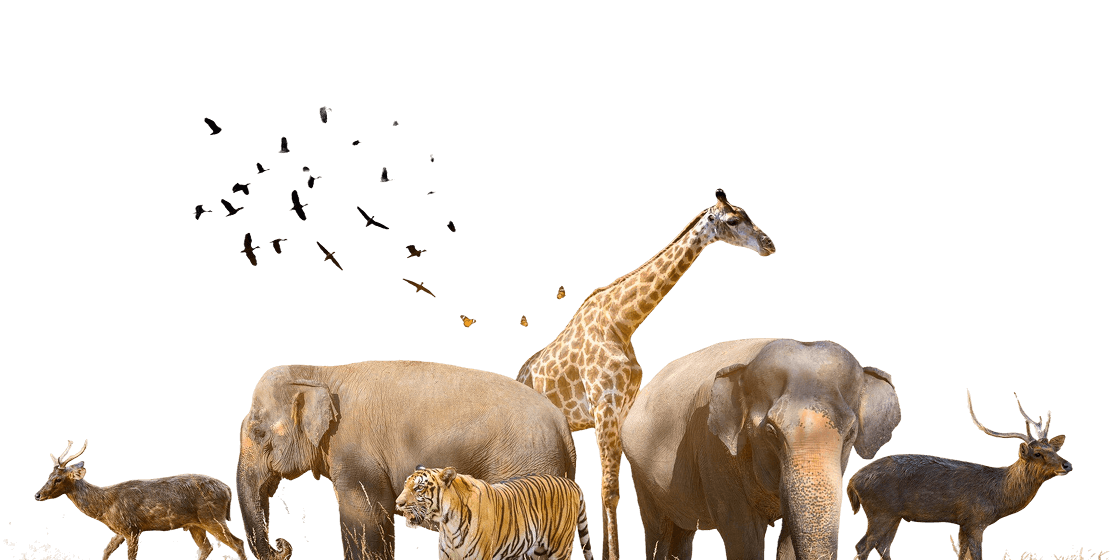
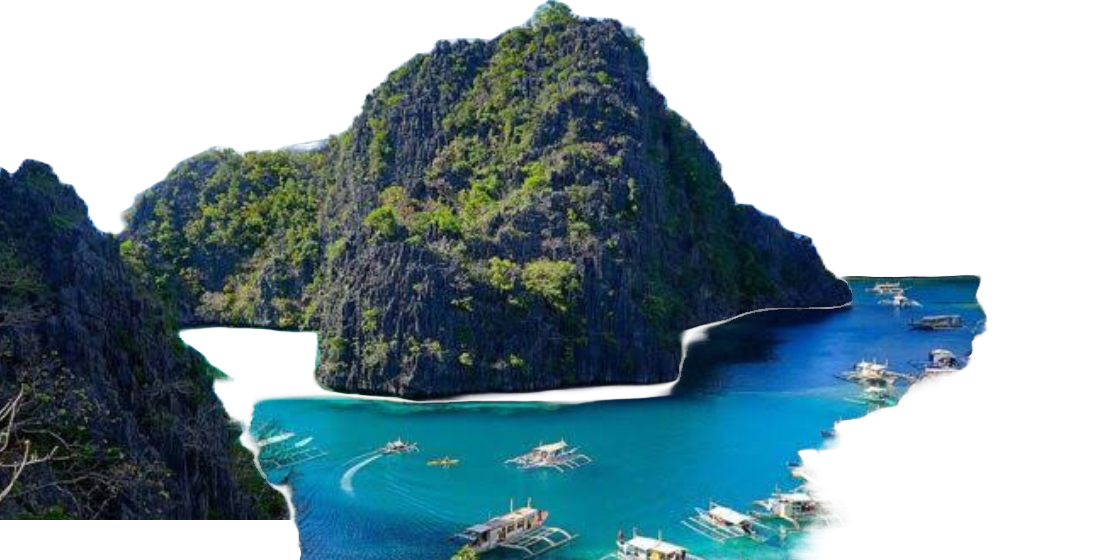
feat: update services page FAQ content and add background assets

diff --git a/services.html b/services.html
@@ -1162,73 +1162,84 @@
                                                     </span>
                                                 </button>
                                                 <div class="accordion-content">
-                                                    <div class="content-inner">Web agencies often work across various
-                                                        industries but might have expertise in fields like retail,
-                                                        healthcare, technology, or real estate.</div>
+                                                    <div class="content-inner">Amed is home to some of Bali’s best
+                                                        snorkeling spots, including Jemeluk Bay, Japanese Shipwreck, and
+                                                        Lipah Beach. These locations offer crystal-clear waters, vibrant
+                                                        coral reefs, and diverse marine life. Our guided snorkeling
+                                                        tours take you to the most beautiful and safe snorkeling sites.
+                                                    </div>
                                                 </div>
                                             </div>
 
                                             <div class="accordion-item">
                                                 <button class="accordion-header open">
-                                                    <h3 class="xl:text-2xxl text-lg font-normal">What industries do you
-                                                        specialize in?</h3>
+                                                    <h3 class="xl:text-2xxl text-lg font-normal">What can I expect on an
+                                                        Amed fishing trip?</h3>
                                                     <span class="arrow">
                                                         <i class="fa-solid fa-plus"></i>
                                                         <i class="fa-solid fa-minus"></i>
                                                     </span>
                                                 </button>
                                                 <div class="accordion-content active">
-                                                    <div class="content-inner">Web agencies often work across various
-                                                        industries but might have expertise in fields like retail,
-                                                        healthcare, technology, or real estate.</div>
+                                                    <div class="content-inner">Our Amed fishing trips offer an authentic
+                                                        Balinese fishing experience. You'll go fishing with experienced
+                                                        local fishermen using traditional handline fishing techniques or
+                                                        modern equipment. Expect to catch tuna, mahi-mahi, and snapper,
+                                                        depending on the season.</div>
                                                 </div>
                                             </div>
 
                                             <div class="accordion-item">
                                                 <button class="accordion-header">
-                                                    <h3 class="xl:text-2xxl text-lg font-normal">Do you provide custom
-                                                        website design or use templates?</h3>
+                                                    <h3 class="xl:text-2xxl text-lg font-normal">Do I need prior
+                                                        experience for snorkeling or fishing in Amed?</h3>
                                                     <span class="arrow">
                                                         <i class="fa-solid fa-plus"></i>
                                                         <i class="fa-solid fa-minus"></i>
                                                     </span>
                                                 </button>
                                                 <div class="accordion-content">
-                                                    <div class="content-inner">Web agencies often work across various
-                                                        industries but might have expertise in fields like retail,
-                                                        healthcare, technology, or real estate.</div>
+                                                    <div class="content-inner">No experience? No problem! Our snorkeling
+                                                        and fishing tours in Amed are perfect for beginners and
+                                                        experienced adventurers alike. Our guides provide full
+                                                        instructions, safety briefings, and high-quality equipment to
+                                                        ensure a fun and safe experience.</div>
                                                 </div>
                                             </div>
 
                                             <div class="accordion-item">
                                                 <button class="accordion-header">
-                                                    <h3 class="xl:text-2xxl text-lg font-normal">What platforms do you
-                                                        work with?</h3>
+                                                    <h3 class="xl:text-2xxl text-lg font-normal">What should I bring for
+                                                        a snorkeling or fishing trip?</h3>
                                                     <span class="arrow">
                                                         <i class="fa-solid fa-plus"></i>
                                                         <i class="fa-solid fa-minus"></i>
                                                     </span>
                                                 </button>
                                                 <div class="accordion-content">
-                                                    <div class="content-inner">Web agencies often work across various
-                                                        industries but might have expertise in fields like retail,
-                                                        healthcare, technology, or real estate.</div>
+                                                    <div class="content-inner">For a comfortable snorkeling or fishing
+                                                        trip in Amed, we recommend bringing a swimsuit, towel,
+                                                        sunscreen, sunglasses, and a waterproof camera. We provide
+                                                        snorkeling gear, life jackets, and fishing equipment, so you
+                                                        don’t have to worry about bringing your own.</div>
                                                 </div>
                                             </div>
 
                                             <div class="accordion-item">
                                                 <button class="accordion-header">
-                                                    <h3 class="xl:text-2xxl text-lg font-normal">How do you price your
-                                                        services?</h3>
+                                                    <h3 class="xl:text-2xxl text-lg font-normal">How do I book a
+                                                        snorkeling or fishing tour in Amed?</h3>
                                                     <span class="arrow">
                                                         <i class="fa-solid fa-plus"></i>
                                                         <i class="fa-solid fa-minus"></i>
                                                     </span>
                                                 </button>
                                                 <div class="accordion-content">
-                                                    <div class="content-inner">Web agencies often work across various
-                                                        industries but might have expertise in fields like retail,
-                                                        healthcare, technology, or real estate.</div>
+                                                    <div class="content-inner">Booking your Amed snorkeling or fishing
+                                                        tour is easy! You can book online through our website, contact
+                                                        us via WhatsApp, or visit our office in Amed. We recommend
+                                                        booking in advance, especially during peak season, to secure
+                                                        your spot..</div>
                                                 </div>
                                             </div>
                                         </div>
